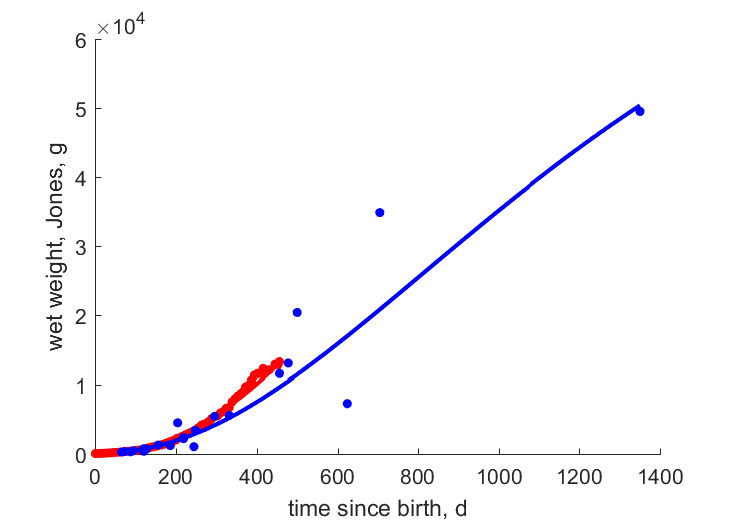
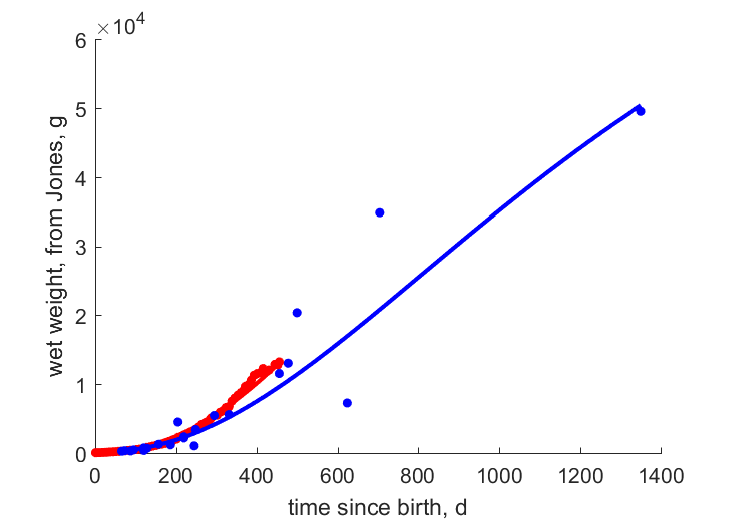
New value for ultimate weight, value for pAm updated

diff --git a/new_AmP_fits_2025-05-09/Dermochelys_coriacea_res.html b/new_AmP_fits_2025-05-09/Dermochelys_coriacea_res.html
@@ -44,7 +44,7 @@
   </div>
 
   <div class="par">
-  <h4>COMPLETE = 3.0; MRE =    0.127; SMAE =    0.141; SMSE =    0.047 </h4>
+  <h4>COMPLETE = 3.0; MRE =    0.122; SMAE =    0.132; SMSE =    0.041 </h4>
   </div>
 
   <p class="clear"></p>
@@ -62,17 +62,17 @@
     <TR><TD>83.59</TD> <TD>54.9</TD> <TD>0.3432</TD> <TD>Ww0</TD> <TD>g</TD> <TD>initial wet weight</TD></TR>
     <TR><TD>46.03</TD> <TD>45.48</TD> <TD>0.01194</TD> <TD>Wwb</TD> <TD>g</TD> <TD>wet weight at birth</TD></TR>
     <TR><TD>9.776</TD> <TD>13.64</TD> <TD>0.3957</TD> <TD>Wdb</TD> <TD>g</TD> <TD>dry weight at birth</TD></TR>
-    <TR><TD>6.833e+05</TD> <TD>4.395e+05</TD> <TD>0.3568</TD> <TD>Wwi</TD> <TD>g</TD> <TD>ultimate wet weight</TD></TR>
+    <TR><TD>3.7e+05</TD> <TD>4.395e+05</TD> <TD>0.1879</TD> <TD>Wwi</TD> <TD>g</TD> <TD>ultimate wet weight</TD></TR>
     <TR><TD>0.4147</TD> <TD>0.4094</TD> <TD>0.01277</TD> <TD>Ri</TD> <TD>#/d</TD> <TD>ultimate reproduction rate</TD></TR>
     <TR><TD>0.41</TD> <TD>0.2263</TD> <TD>0.4481</TD> <TD>pAm</TD> <TD>W/kg</TD> <TD>mass-specific metabolic rate </TD></TR>
-    <TR><TD>0.81</TD> <TD>0.8115</TD> <TD>0.001876</TD> <TD>pXm</TD> <TD>W/kg</TD> <TD>maximum intake of jellyfish of fully grown individual</TD></TR>
-    <TR><TD colspan="2">see figure</TD> <TD>0.04547</TD> <TD>tL_Jone</TD> <TD colspan="2">time since birth <font color="blue"><i>vs.</i></font> straight carapace length, Jones</TD>
-    <TR><TD colspan="2">see figure</TD> <TD>0.0796</TD> <TD>tW_Jone</TD> <TD colspan="2">time since birth <font color="blue"><i>vs.</i></font> wet weight, Jones</TD>
-    <TR><TD colspan="2">see figure</TD> <TD>0.1608</TD> <TD>LW_Jone</TD> <TD colspan="2">straight carapace length <font color="blue"><i>vs.</i></font> wet weight, Jones</TD>
-    <TR><TD colspan="2">see figure</TD> <TD>0.1804</TD> <TD>tL_cap</TD> <TD colspan="2">time since birth <font color="blue"><i>vs.</i></font> straight carapace length, Jones captive mix</TD>
-    <TR><TD colspan="2">see figure</TD> <TD>0.276</TD> <TD>tW_cap</TD> <TD colspan="2">time since birth <font color="blue"><i>vs.</i></font> wet weight, Jones captive mix</TD>
-    <TR><TD colspan="2">see figure</TD> <TD>0.343</TD> <TD>LW_cap</TD> <TD colspan="2">straight carapace length <font color="blue"><i>vs.</i></font> wet weight, Jones captive mix</TD>
-    <TR><TD colspan="2">see figure</TD> <TD>0.6107</TD> <TD>LW_wild</TD> <TD colspan="2">straight carapace length <font color="blue"><i>vs.</i></font> wet weight, Jones wild</TD>
+    <TR><TD>1.13</TD> <TD>0.8115</TD> <TD>0.2818</TD> <TD>pXm</TD> <TD>W/kg</TD> <TD>maximum intake of jellyfish of fully grown individual</TD></TR>
+    <TR><TD colspan="2">see figure</TD> <TD>0.04547</TD> <TD>tL_Jone</TD> <TD colspan="2">time since birth <font color="blue"><i>vs.</i></font> straight carapace length, from Jones</TD>
+    <TR><TD colspan="2">see figure</TD> <TD>0.0796</TD> <TD>tW_Jone</TD> <TD colspan="2">time since birth <font color="blue"><i>vs.</i></font> wet weight, from Jones</TD>
+    <TR><TD colspan="2">see figure</TD> <TD>0.1608</TD> <TD>LW_Jone</TD> <TD colspan="2">straight carapace length <font color="blue"><i>vs.</i></font> wet weight, from Jones</TD>
+    <TR><TD colspan="2">see figure</TD> <TD>0.1804</TD> <TD>tL_cap</TD> <TD colspan="2">time since birth <font color="blue"><i>vs.</i></font> straight carapace length, from Jones</TD>
+    <TR><TD colspan="2">see figure</TD> <TD>0.276</TD> <TD>tW_cap</TD> <TD colspan="2">time since birth <font color="blue"><i>vs.</i></font> wet weight, from Jones</TD>
+    <TR><TD colspan="2">see figure</TD> <TD>0.343</TD> <TD>LW_cap</TD> <TD colspan="2">straight carapace length <font color="blue"><i>vs.</i></font> wet weight, from Jones</TD>
+    <TR><TD colspan="2">see figure</TD> <TD>0.6107</TD> <TD>LW_wild</TD> <TD colspan="2">straight carapace length <font color="blue"><i>vs.</i></font> wet weight, from Jones</TD>
     <TR><TD colspan="2">see figure</TD> <TD>0.06154</TD> <TD>tL_skel</TD> <TD colspan="2">time since birth <font color="blue"><i>vs.</i></font> straight carapace length skel</TD>
     <TR><TD colspan="2">see figure</TD> <TD>0.05955</TD> <TD>tL_Wyne</TD> <TD colspan="2">time since birth <font color="blue"><i>vs.</i></font> straight carapace length</TD>
     <TR><TD colspan="2">see figure</TD> <TD>0.2069</TD> <TD>tW_Wyne</TD> <TD colspan="2">time since birth <font color="blue"><i>vs.</i></font> wet weight</TD>

diff --git a/new_AmP_fits_2025-05-09/mydata_Dermochelys_coriacea.m b/new_AmP_fits_2025-05-09/mydata_Dermochelys_coriacea.m
@@ -76,8 +76,13 @@ data.Wwb = 46.03; units.Wwb = 'g'; label.Wwb = 'wet weight at birth'; bibkey.Wwb
   comment.Wwb = 'Average between 47.10 g (Hsu2020, n = 17) and 45.34 g (Wyne2023, n = 38), and 45.69 (Thom1993, n=6)';
 data.Wdb = 9.776; units.Wdb = 'g'; label.Wdb = 'dry weight at birth'; bibkey.Wdb = {'Thom1993'};
   %comment.Wdb = 'No new NWA data (there is EP data but not relevant to this task)';
-data.Wwi = 683.33*1e3; units.Wwi = 'g'; label.Wwi = 'ultimate wet weight'; bibkey.Wwi = {'Wood1982'};
-  comment.Wwi = 'Guiness book of animal facts and feats - Gerald L Wood, 1982 cites Duron 1978 for a record of a capture male in a fishing ent at Longeville, Vendee Dept, W France that was 800 kg, with two other records off of West France at 650 and 600 kg. All averaged for this value.';
+data.Wwi = 370*1e3; units.Wwi = 'g'; label.Wwi = 'ultimate wet weight'; bibkey.Wwi = {'Wood1982', 'Pala1996', 'Lutc1992'};
+  comment.Wwi ={ 'Set to 370 kg based on more recent references suggesting 360kg and historic records of big turtles having values of 600+kg', ...
+      'Paladino: 13 adult female leatherback turtles (D.coriacea) near Tortuguero (Limon Province, Costa Rica -- NWA)',...
+      'and Playa Langosta (Guanacaste Province, Costa Rica -- EP) in Table 1 reports three means, biggest mean 366 kg (N=10);',...
+      'Lutcavage: 5 adult females on Tortuguero beach, Costa Rica: 320kg, 315kg, 370kg, 355 kg, 350kg (mean 342 +/-23kg)',...
+      ' Wood: Guiness book of animal facts and feats - Gerald L Wood, 1982 cites Duron 1978 for a record of a captured male ',...
+      'in a fishing net at Longeville, Vendee Dept, W France that was 800 kg, with two other records off of West France at 650 and 600 kg.'};
 
 data.Ri = 0.4147; units.Ri = '#/d'; label.Ri = 'ultimate reproduction rate'; bibkey.Ri = {'ESA2020'};
   temp.Ri = C2K(21.13); units.temp.Ri = 'K'; label.temp.Ri = 'temperature';
@@ -90,12 +95,12 @@ data.pAm  = 0.41;    units.pAm  = 'W/kg'; label.pAm  = 'mass-specific metabolic 
       'but all data from Wall2008 averages to 0.95 for resting, active, laying, field, max, and calculated values', ...
       'mod_1: pAm was ignorned because of inconsistency with other data and because allometric correction was applied for obtaining the specific rate '}; 
 
-data.pXm  = 0.81;    units.pXm  = 'W/kg'; label.pXm  = 'maximum intake of jellyfish of fully grown individual'; bibkey.pXm  = 'Jone2009';   
+data.pXm  = 1.13;    units.pXm  = 'W/kg'; label.pXm  = 'maximum intake of jellyfish of fully grown individual'; bibkey.pXm  = 'Jone2009';   
   temp.pXm = C2K(20);  units.temp.pXm = 'K'; label.temp.pXm = 'temperature';
-  comment.pXm = {'about 350 kg, 82 kg jelly fish/d for 250-450 kg turtle wit 200 J/g  = 82/350*200000/24/60/60 W/kg. ', ...
-      'AO note: Energy budget calculations between EP and NWA, but suggests that average required feeding rate for ', ...
-      'St. Croix (NWA) leatherbacks for a 2.85 remigration interval is 127 kg/d. Leatherback prey energy content is ', ... 
-      '310 kJ/kg wet mass from Davenport & Balazs 1991).'};
+  comment.pXm = {'NWA leatherbacks: Energy budget calculations between EP and NWA, but suggests that average required feeding rate for ', ...
+      'St. Croix (NWA) leatherbacks for a 2.85 year remigration interval is 127 kg/d. Leatherback prey energy content is ', ... 
+      '310 kJ/kg wet mass from Davenport & Balazs 1991). For a 400 kg turtle, this would be 127/400*310000/24/60/60', ...
+      'previous version: adult about 350 kg, 82 kg jelly fish/d for 250-450 kg turtle with 200 J/g  = 82/350*200000/24/60/60 = 0.5423 W/kg. '};
 
 % uni-variate data
 % Table 3.1 in Jones 2009: used ONLY PARTLY, because data after 1.3 years dominated by 2 individuals, 
@@ -193,7 +198,7 @@ tLW_Jone(:,1) = 365 * tLW_Jone(:,1); % convert yr to d
 tLW_Jone(:,3) = 1e3 * tLW_Jone(:,3); % convert kg to g
 
 data.tL_Jone = tLW_Jone(1:Nind(1)-1,1:2); % all data with four or more individiduals 
-units.tL_Jone   = {'d', 'cm'};  label.tL_Jone = {'time since birth', 'straight carapace length, Jones'};  
+units.tL_Jone   = {'d', 'cm'};  label.tL_Jone = {'time since birth', 'straight carapace length, from Jones'};  
 temp.tL_Jone    = C2K(24);  units.temp.tL_Jone = 'K'; label.temp.tL_Jone = 'temperature';
 bibkey.tL_Jone = 'Jone2009';
 comment.tL_Jone = ['data from Table 3.1, captive animals, fed with Pacific Ocean squid, Todarodes pacificus; '...
@@ -201,12 +206,12 @@ comment.tL_Jone = ['data from Table 3.1, captive animals, fed with Pacific Ocean
   'blended with unflavored gelatin in hot water.'];
 %
 data.tW_Jone = tLW_Jone(1:Nind(1)-1,[1 3]); 
-units.tW_Jone   = {'d', 'g'};  label.tW_Jone = {'time since birth', 'wet weight, Jones'};  
+units.tW_Jone   = {'d', 'g'};  label.tW_Jone = {'time since birth', 'wet weight, from Jones'};  
 temp.tW_Jone    = C2K(24);  units.temp.tW_Jone = 'K'; label.temp.tW_Jone = 'temperature';
 bibkey.tW_Jone = 'Jone2009';
 
 data.LW_Jone = tLW_Jone(1:Nind(1)-1,[2 3]); 
-units.LW_Jone   = {'cm', 'g'};  label.LW_Jone = {'straight carapace length', 'wet weight, Jones'};  
+units.LW_Jone   = {'cm', 'g'};  label.LW_Jone = {'straight carapace length', 'wet weight, from Jones'};  
 bibkey.LW_Jone = 'Jone2009';
 % 
 % % data below used for information only (only 3 or fewer individuals)
@@ -277,20 +282,20 @@ tLW_cap(:,1) = 365 * tLW_cap(:,1); % convert yr to d
 tLW_cap(:,3) = 1e3 * tLW_cap(:,3); % convert kg to g
 
 data.tL_cap = tLW_cap(:,1:2); % age, length
-units.tL_cap   = {'d', 'cm'};  label.tL_cap = {'time since birth', 'straight carapace length, Jones captive mix'};  
+units.tL_cap   = {'d', 'cm'};  label.tL_cap = {'time since birth', 'straight carapace length, from Jones'};  
 temp.tL_cap    = C2K(24);  units.temp.tL_cap = 'K'; label.temp.tL_cap = 'temperature';
 bibkey.tL_cap = 'Jone2009';
 comment.tL_cap = 'data from Table 3.2, captive animals. ''This study''from Jones 2009, other data from corresponding refs)';
 
 use = find(~isnan(tLW_cap(:,3)));
 data.tW_cap = tLW_cap(use,[1,3]); % age, wet weight
-units.tW_cap   = {'d', 'g'};  label.tW_cap = {'time since birth', 'wet weight, Jones captive mix'};  
+units.tW_cap   = {'d', 'g'};  label.tW_cap = {'time since birth', 'wet weight, from Jones'};  
 temp.tW_cap    = C2K(24);  units.temp.tW_cap = 'K'; label.temp.tW_cap = 'temperature';
 bibkey.tW_cap = 'Jone2009';
 comment.tW_cap = 'data from Table 3.2, captive animals. ''This study''from Jones 2009, other data from corresponding refs)';
 
 data.LW_cap = tLW_cap(use,[2,3]); % SCL, wet weight
-units.LW_cap   = {'cm', 'g'};  label.LW_cap = {'straight carapace length', 'wet weight, Jones captive mix'};  
+units.LW_cap   = {'cm', 'g'};  label.LW_cap = {'straight carapace length', 'wet weight, from Jones'};  
 bibkey.LW_cap = 'Jone2009';
 
 
@@ -309,7 +314,7 @@ LW_wild = [39.00	7	%MTN(1996)
 ];
 LW_wild = sort(LW_wild); %sort by length
 data.LW_wild = [LW_wild(:,1), LW_wild(:,2)*1e3]; % SCL, wet weight
-units.LW_wild   = {'cm', 'g'};  label.LW_wild = {'straight carapace length', 'wet weight, Jones wild'};  
+units.LW_wild   = {'cm', 'g'};  label.LW_wild = {'straight carapace length', 'wet weight, from Jones'};  
 bibkey.LW_wild = 'Jone2009';
 
 
@@ -653,6 +658,27 @@ bibkey = 'Jone2009'; type = 'Phdthesis'; bib = [ ...
 'title = {Energetics of the leatherback turtle, \emph{Dermochelys coriacea}}, ' ...
 'howpublished = {\url{https://circle.ubc.ca/handle/2429/7454?show=full}}, ' ...
 'school = {Univ Britisch columbia (Vancouver)}'];
+metaData.biblist.(bibkey) = ['''@', type, '{', bibkey, ', ' bib, '}'';'];
+%
+bibkey= 'Lutc1992'; type = 'Article'; bib =[ ...
+  'title={Oxygen stores and aerobic metabolism in the leatherback sea turtle},' ...
+  'author={Lutcavage, Molly E and BUsHNELL, PETER G and JoNEs, DAVID R},' ...
+  'journal={Canadian Journal of Zoology},' ...
+  'volume={70},' ...
+  'number={2},' ...
+  'pages={348--351},' ...
+  'year={1992},' ...
+  'publisher={NRC Research Press Ottawa, Canada}'];
+metaData.biblist.(bibkey) = ['''@', type, '{', bibkey, ', ' bib, '}'';'];
+%
+bibkey= '{Pala1996'; type = 'Article'; bib =[ ...
+  'title={Respiratory Physiology of Adult Leatherback Turtles(\emph{Dermochelys coriacea}) While Nesting on Land},' ...
+  'author={Paladino, FV and Spotila, JR and O''Connor, MP and Gatten Jr, RE},' ...
+  'journal={Chelonian Conservation and Biology},' ...
+  'volume={2},' ...
+  'number={2},' ...
+  'pages={223--229},' ...
+  'year={1996}'];
 metaData.biblist.(bibkey) = ['''@', type, '{', bibkey, ', ' bib, '}'';'];
 %
 bibkey = 'Thom1993'; type = 'Article'; bib = [ ... 

diff --git a/new_AmP_fits_2025-05-09/run_Dermochelys_coriacea.m b/new_AmP_fits_2025-05-09/run_Dermochelys_coriacea.m
@@ -14,13 +14,4 @@ estim_options('method', 'no');
 
 estim_pars; 
 
-close(14:16)
-
-  return
-   estim_options('pars_init_method', 1); 
-   estim_pars; 
-  estim_pars;
-  estim_options('max_step_number', 5e3); 
-  estim_pars;
-
- close(14:16) 
+%close(10:13)

diff --git a/README.md b/README.md
@@ -1,3 +1,6 @@
+Updates 2025/07/22
+* New value for ultimate weight, value for pAm updated
+
 Updates 2025/06/26
 * new parameters consolidated, EVHR scripts checked for consistency with AmP scripts (food and temp to provide same/similar predictions for life history traits in both sets of routines)
 * these parameters and results are now in the manuscript - tables and figures. MDS plots are done but folder not in github.
